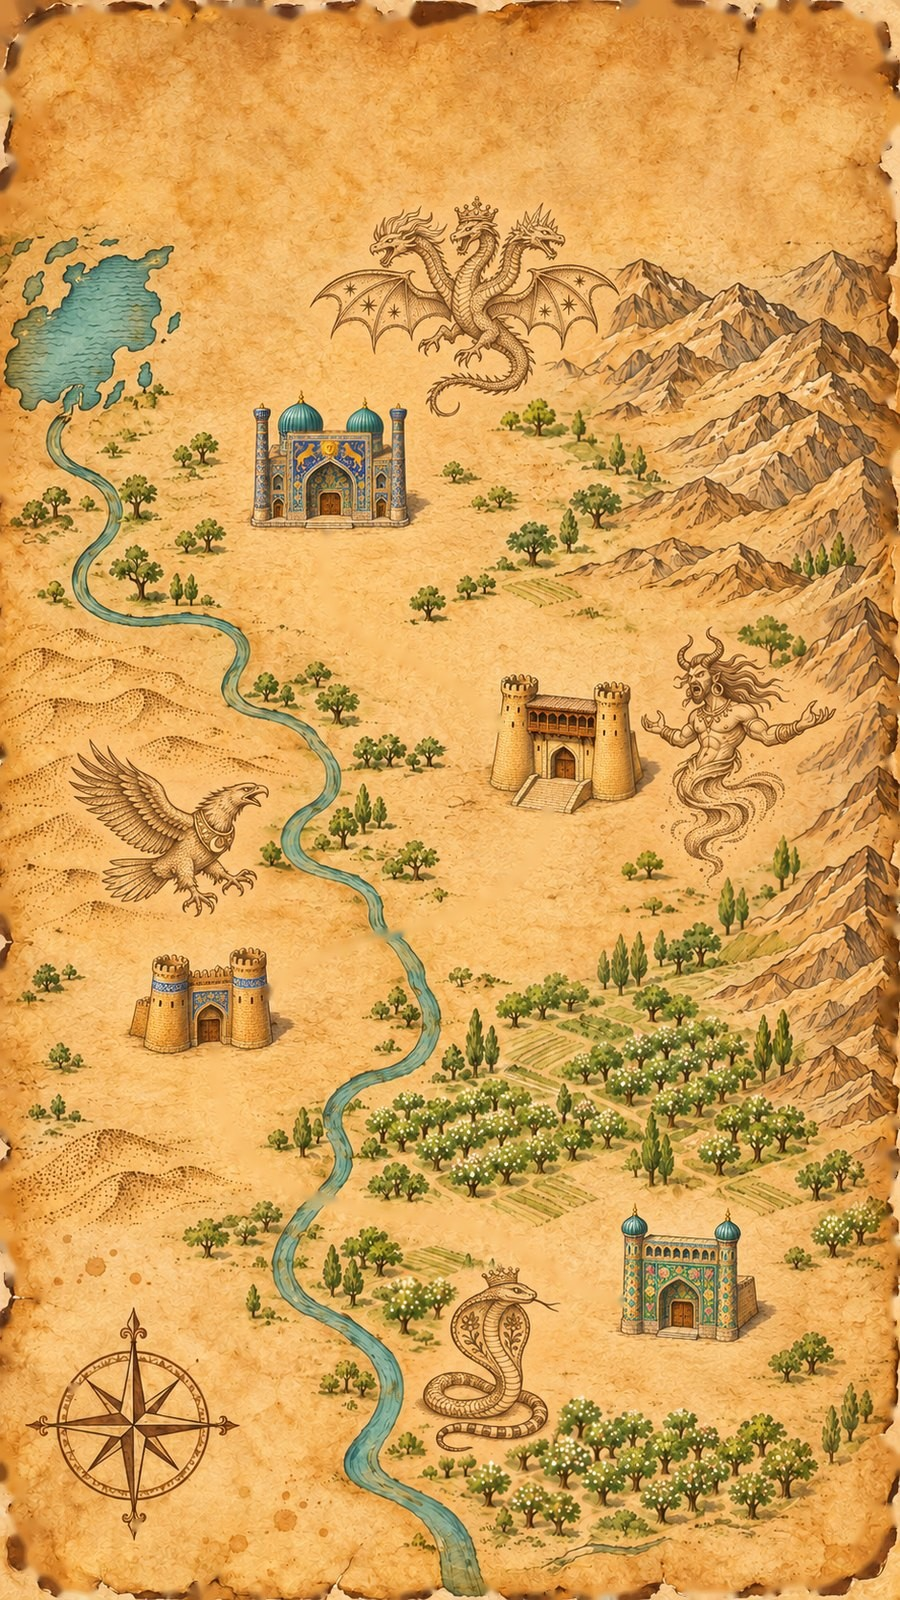
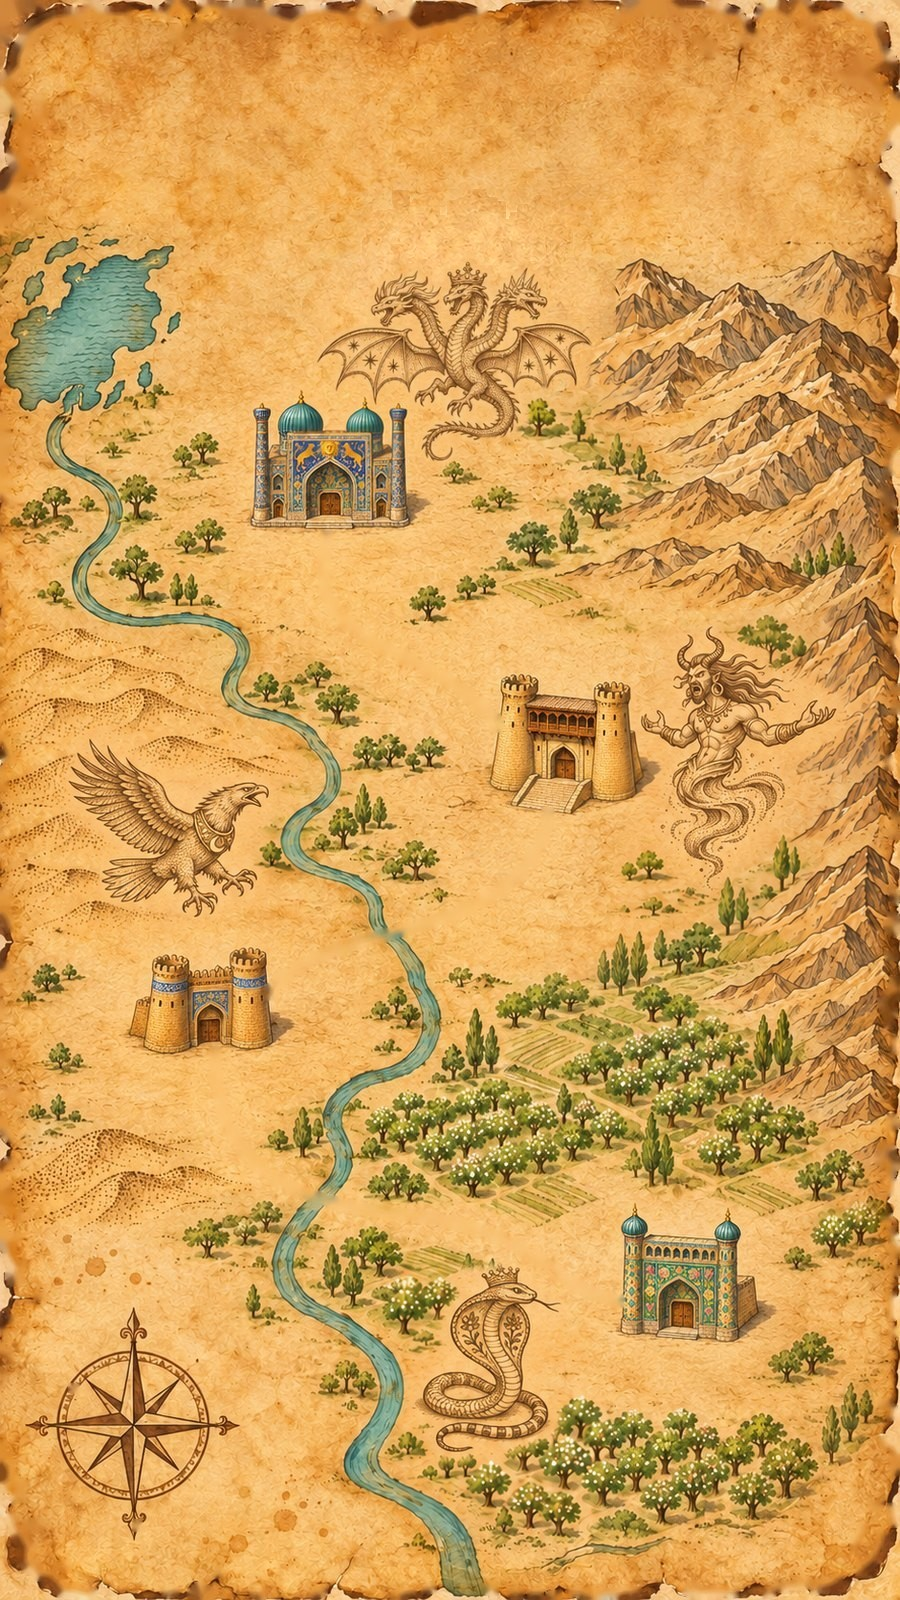
Qal'a Posbonlari v273

Changed region(s): [[0.3422, 0.125, 0.6844, 0.3125]]

diff --git a/index.html b/index.html
@@ -869,7 +869,7 @@ i.cn{filter:none!important}
  <text y="-108" text-anchor="middle" font-family="Philosopher,Georgia,serif" font-weight="700" font-size="30" fill="#5a3a1a" stroke="none">N</text>
 </g>
 <g stroke="#5a3a1a" stroke-width="2" fill="none" opacity=".75"><path d="M120 300 q-30 -20 -10 -50 q30 10 40 -10"/></g>
-</svg><img class="cbg" src="img/city-map.jpg" alt="" onerror="this.remove()"><svg id="croute" viewBox="0 0 900 1600" preserveAspectRatio="none" aria-hidden="true"><defs><mask id="rm0" maskUnits="userSpaceOnUse" x="0" y="0" width="900" height="1600"><path id="rmp0" d="M622 1303 L610 1299 L593 1293 L574 1283 L555 1271 L537 1258 L516 1246 L495 1236 L473 1228 L450 1222 L427 1218 L404 1214 L381 1211 L358 1207 L336 1203 L316 1197 L296 1189 L277 1178 L260 1166 L245 1151 L234 1134 L225 1116 L220 1097 L217 1077 L215 1057" fill="none" stroke="#fff" stroke-width="18" stroke-linecap="round" pathLength="1" stroke-dasharray="1 1" stroke-dashoffset="1"/></mask><mask id="rm1" maskUnits="userSpaceOnUse" x="0" y="0" width="900" height="1600"><path id="rmp1" d="M270 991 L284 978 L301 966 L321 956 L341 948 L362 941 L384 935 L405 929 L426 923 L447 916 L467 908 L486 898 L503 886 L518 872 L531 856 L541 836 L547 810" fill="none" stroke="#fff" stroke-width="18" stroke-linecap="round" pathLength="1" stroke-dasharray="1 1" stroke-dashoffset="1"/></mask><mask id="rm2" maskUnits="userSpaceOnUse" x="0" y="0" width="900" height="1600"><path id="rmp2" d="M495 721 L480 706 L464 692 L446 680 L426 668 L405 658 L385 647 L365 636 L347 622 L334 605 L326 585 L324 564 L326 541" fill="none" stroke="#fff" stroke-width="18" stroke-linecap="round" pathLength="1" stroke-dasharray="1 1" stroke-dashoffset="1"/></mask></defs><path d="M622 1303 L610 1299 L593 1293 L574 1283 L555 1271 L537 1258 L516 1246 L495 1236 L473 1228 L450 1222 L427 1218 L404 1214 L381 1211 L358 1207 L336 1203 L316 1197 L296 1189 L277 1178 L260 1166 L245 1151 L234 1134 L225 1116 L220 1097 L217 1077 L215 1057" mask="url(#rm0)" fill="none" stroke="#a3261b" stroke-opacity=".85" stroke-width="7" stroke-linecap="round" stroke-dasharray="15 13"/><path d="M270 991 L284 978 L301 966 L321 956 L341 948 L362 941 L384 935 L405 929 L426 923 L447 916 L467 908 L486 898 L503 886 L518 872 L531 856 L541 836 L547 810" mask="url(#rm1)" fill="none" stroke="#a3261b" stroke-opacity=".85" stroke-width="7" stroke-linecap="round" stroke-dasharray="15 13"/><path d="M495 721 L480 706 L464 692 L446 680 L426 668 L405 658 L385 647 L365 636 L347 622 L334 605 L326 585 L324 564 L326 541" mask="url(#rm2)" fill="none" stroke="#a3261b" stroke-opacity=".85" stroke-width="7" stroke-linecap="round" stroke-dasharray="15 13"/></svg>
+</svg><img class="cbg" src="img/city-map.jpg?v=273" alt="" onerror="this.remove()"><svg id="croute" viewBox="0 0 900 1600" preserveAspectRatio="none" aria-hidden="true"><defs><mask id="rm0" maskUnits="userSpaceOnUse" x="0" y="0" width="900" height="1600"><path id="rmp0" d="M622 1303 L610 1299 L593 1293 L574 1283 L555 1271 L537 1258 L516 1246 L495 1236 L473 1228 L450 1222 L427 1218 L404 1214 L381 1211 L358 1207 L336 1203 L316 1197 L296 1189 L277 1178 L260 1166 L245 1151 L234 1134 L225 1116 L220 1097 L217 1077 L215 1057" fill="none" stroke="#fff" stroke-width="18" stroke-linecap="round" pathLength="1" stroke-dasharray="1 1" stroke-dashoffset="1"/></mask><mask id="rm1" maskUnits="userSpaceOnUse" x="0" y="0" width="900" height="1600"><path id="rmp1" d="M270 991 L284 978 L301 966 L321 956 L341 948 L362 941 L384 935 L405 929 L426 923 L447 916 L467 908 L486 898 L503 886 L518 872 L531 856 L541 836 L547 810" fill="none" stroke="#fff" stroke-width="18" stroke-linecap="round" pathLength="1" stroke-dasharray="1 1" stroke-dashoffset="1"/></mask><mask id="rm2" maskUnits="userSpaceOnUse" x="0" y="0" width="900" height="1600"><path id="rmp2" d="M495 721 L480 706 L464 692 L446 680 L426 668 L405 658 L385 647 L365 636 L347 622 L334 605 L326 585 L324 564 L326 541" fill="none" stroke="#fff" stroke-width="18" stroke-linecap="round" pathLength="1" stroke-dasharray="1 1" stroke-dashoffset="1"/></mask></defs><path d="M622 1303 L610 1299 L593 1293 L574 1283 L555 1271 L537 1258 L516 1246 L495 1236 L473 1228 L450 1222 L427 1218 L404 1214 L381 1211 L358 1207 L336 1203 L316 1197 L296 1189 L277 1178 L260 1166 L245 1151 L234 1134 L225 1116 L220 1097 L217 1077 L215 1057" mask="url(#rm0)" fill="none" stroke="#a3261b" stroke-opacity=".85" stroke-width="7" stroke-linecap="round" stroke-dasharray="15 13"/><path d="M270 991 L284 978 L301 966 L321 956 L341 948 L362 941 L384 935 L405 929 L426 923 L447 916 L467 908 L486 898 L503 886 L518 872 L531 856 L541 836 L547 810" mask="url(#rm1)" fill="none" stroke="#a3261b" stroke-opacity=".85" stroke-width="7" stroke-linecap="round" stroke-dasharray="15 13"/><path d="M495 721 L480 706 L464 692 L446 680 L426 668 L405 658 L385 647 L365 636 L347 622 L334 605 L326 585 L324 564 L326 541" mask="url(#rm2)" fill="none" stroke="#a3261b" stroke-opacity=".85" stroke-width="7" stroke-linecap="round" stroke-dasharray="15 13"/></svg>
     <div class="croll t"></div><div class="croll b"></div><div class="cseals" id="cseals"></div>
     <div id="cpins"></div>
     <button class="cback" id="cBack" aria-label="Orqaga">‹</button>
